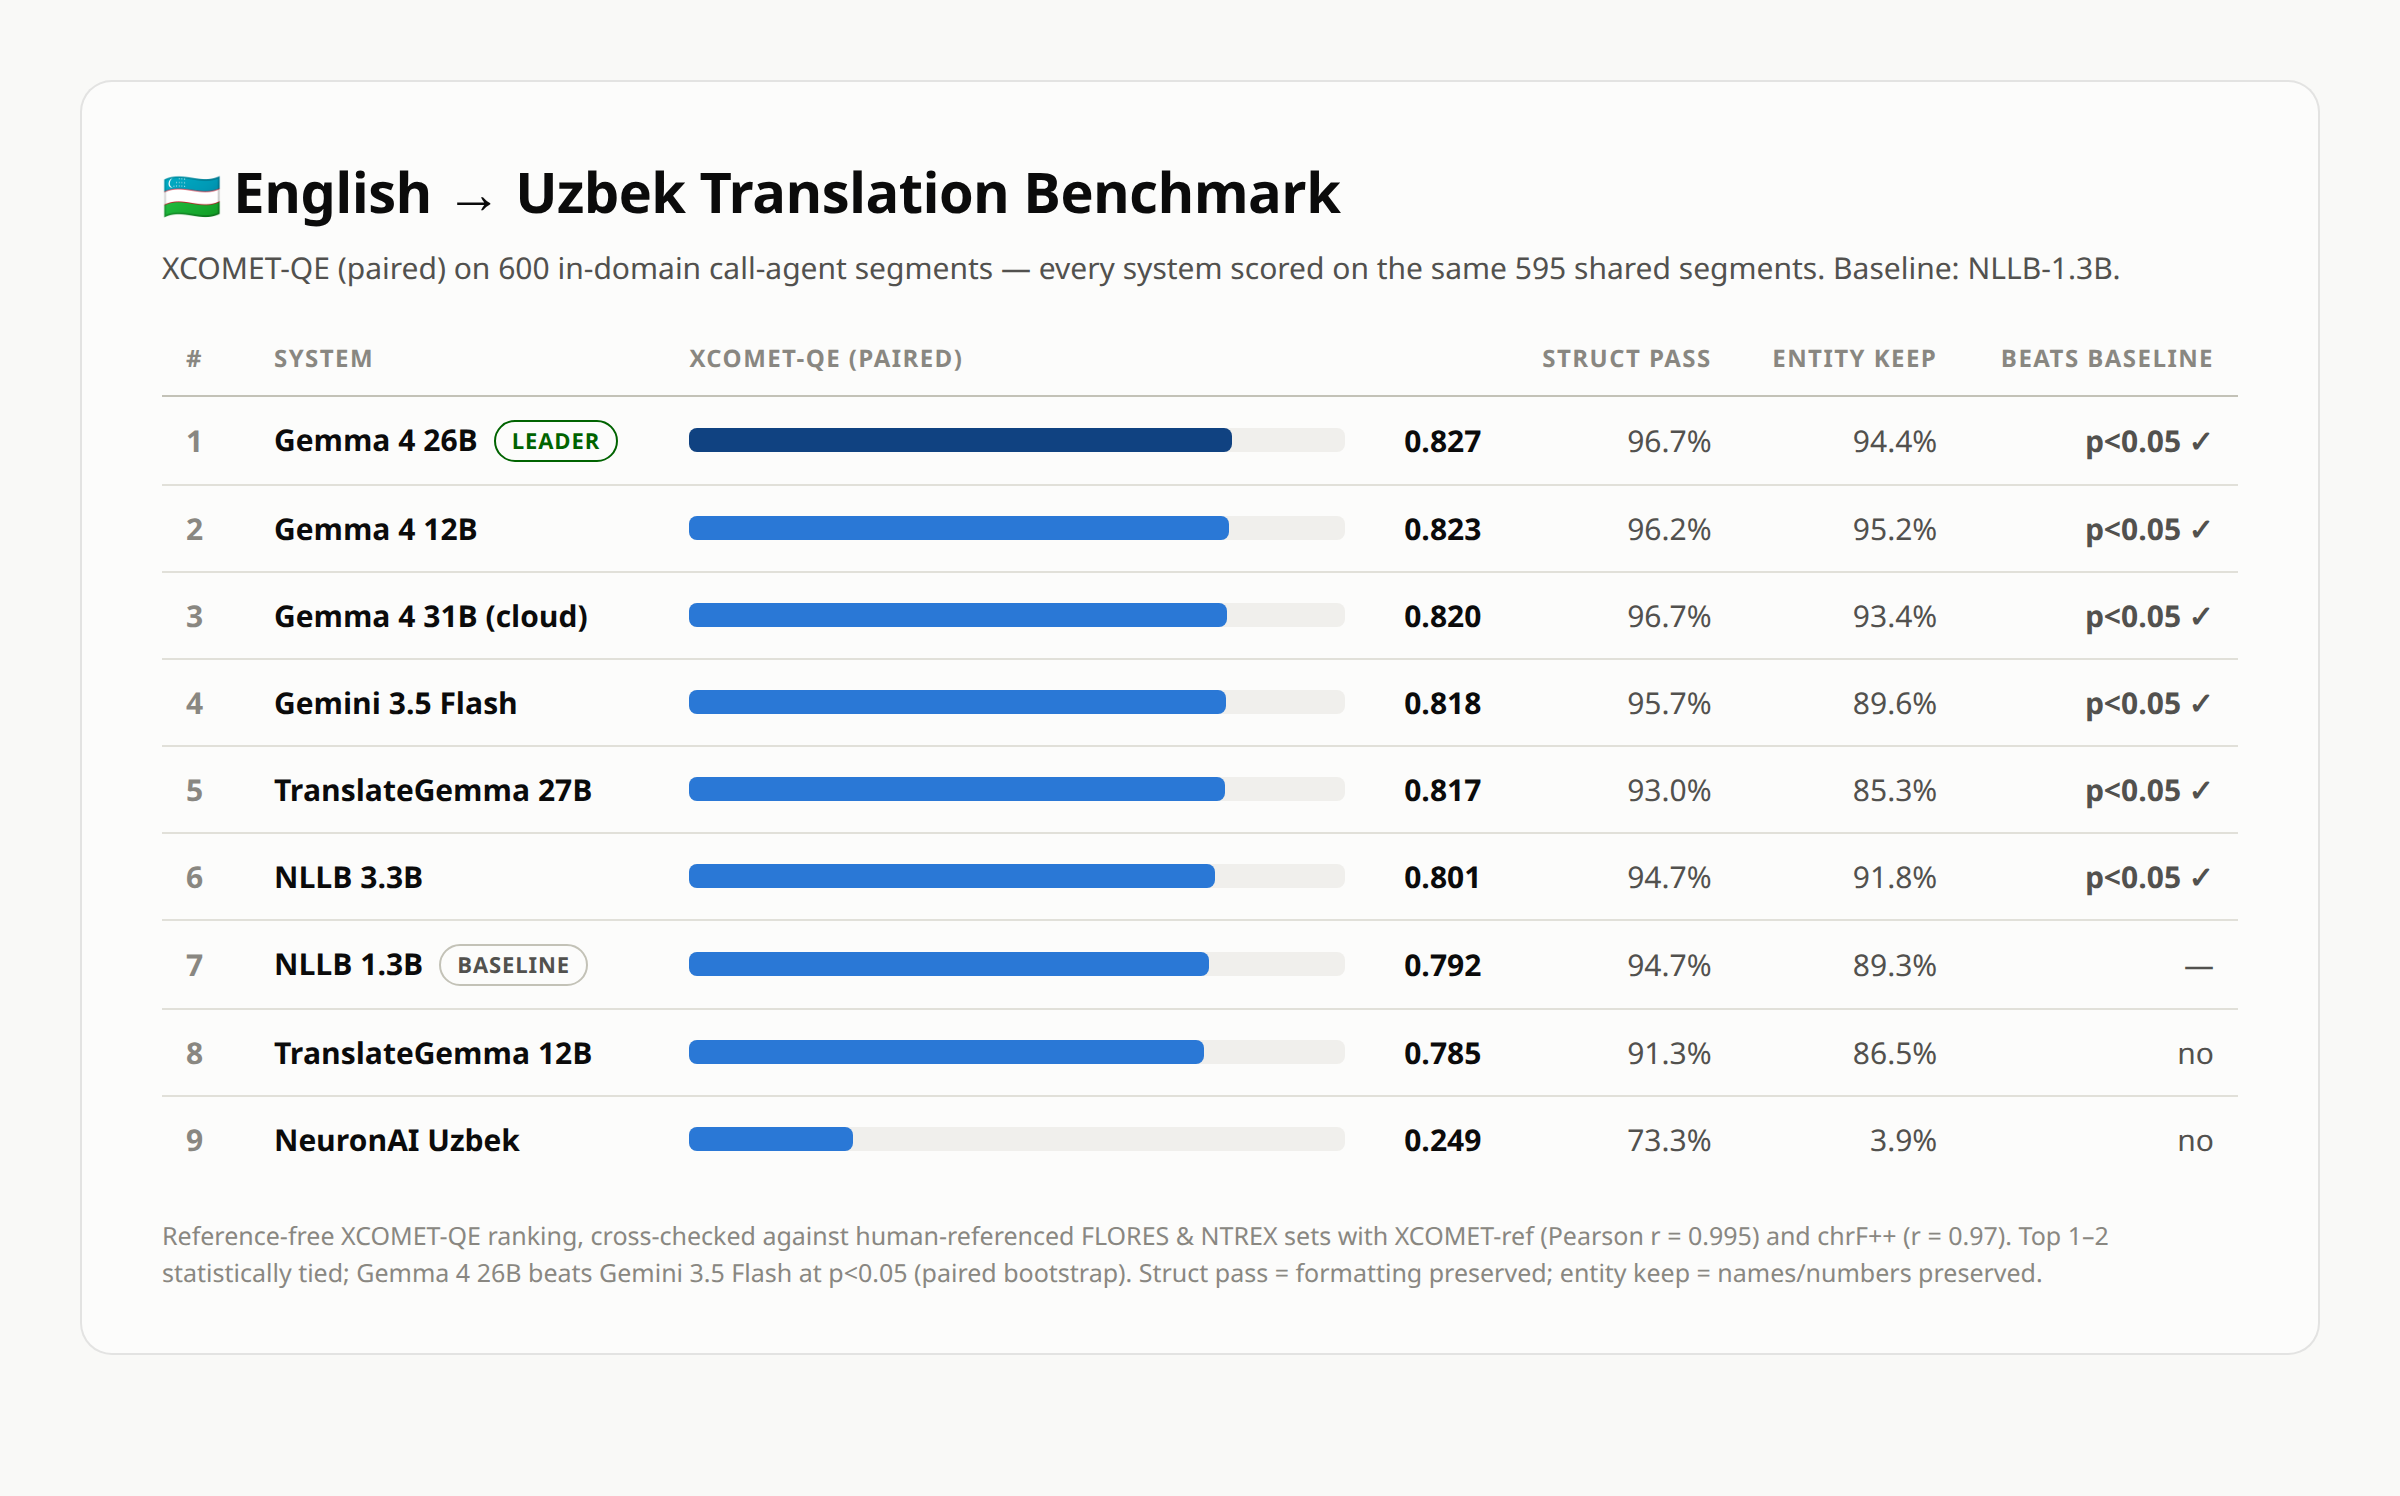
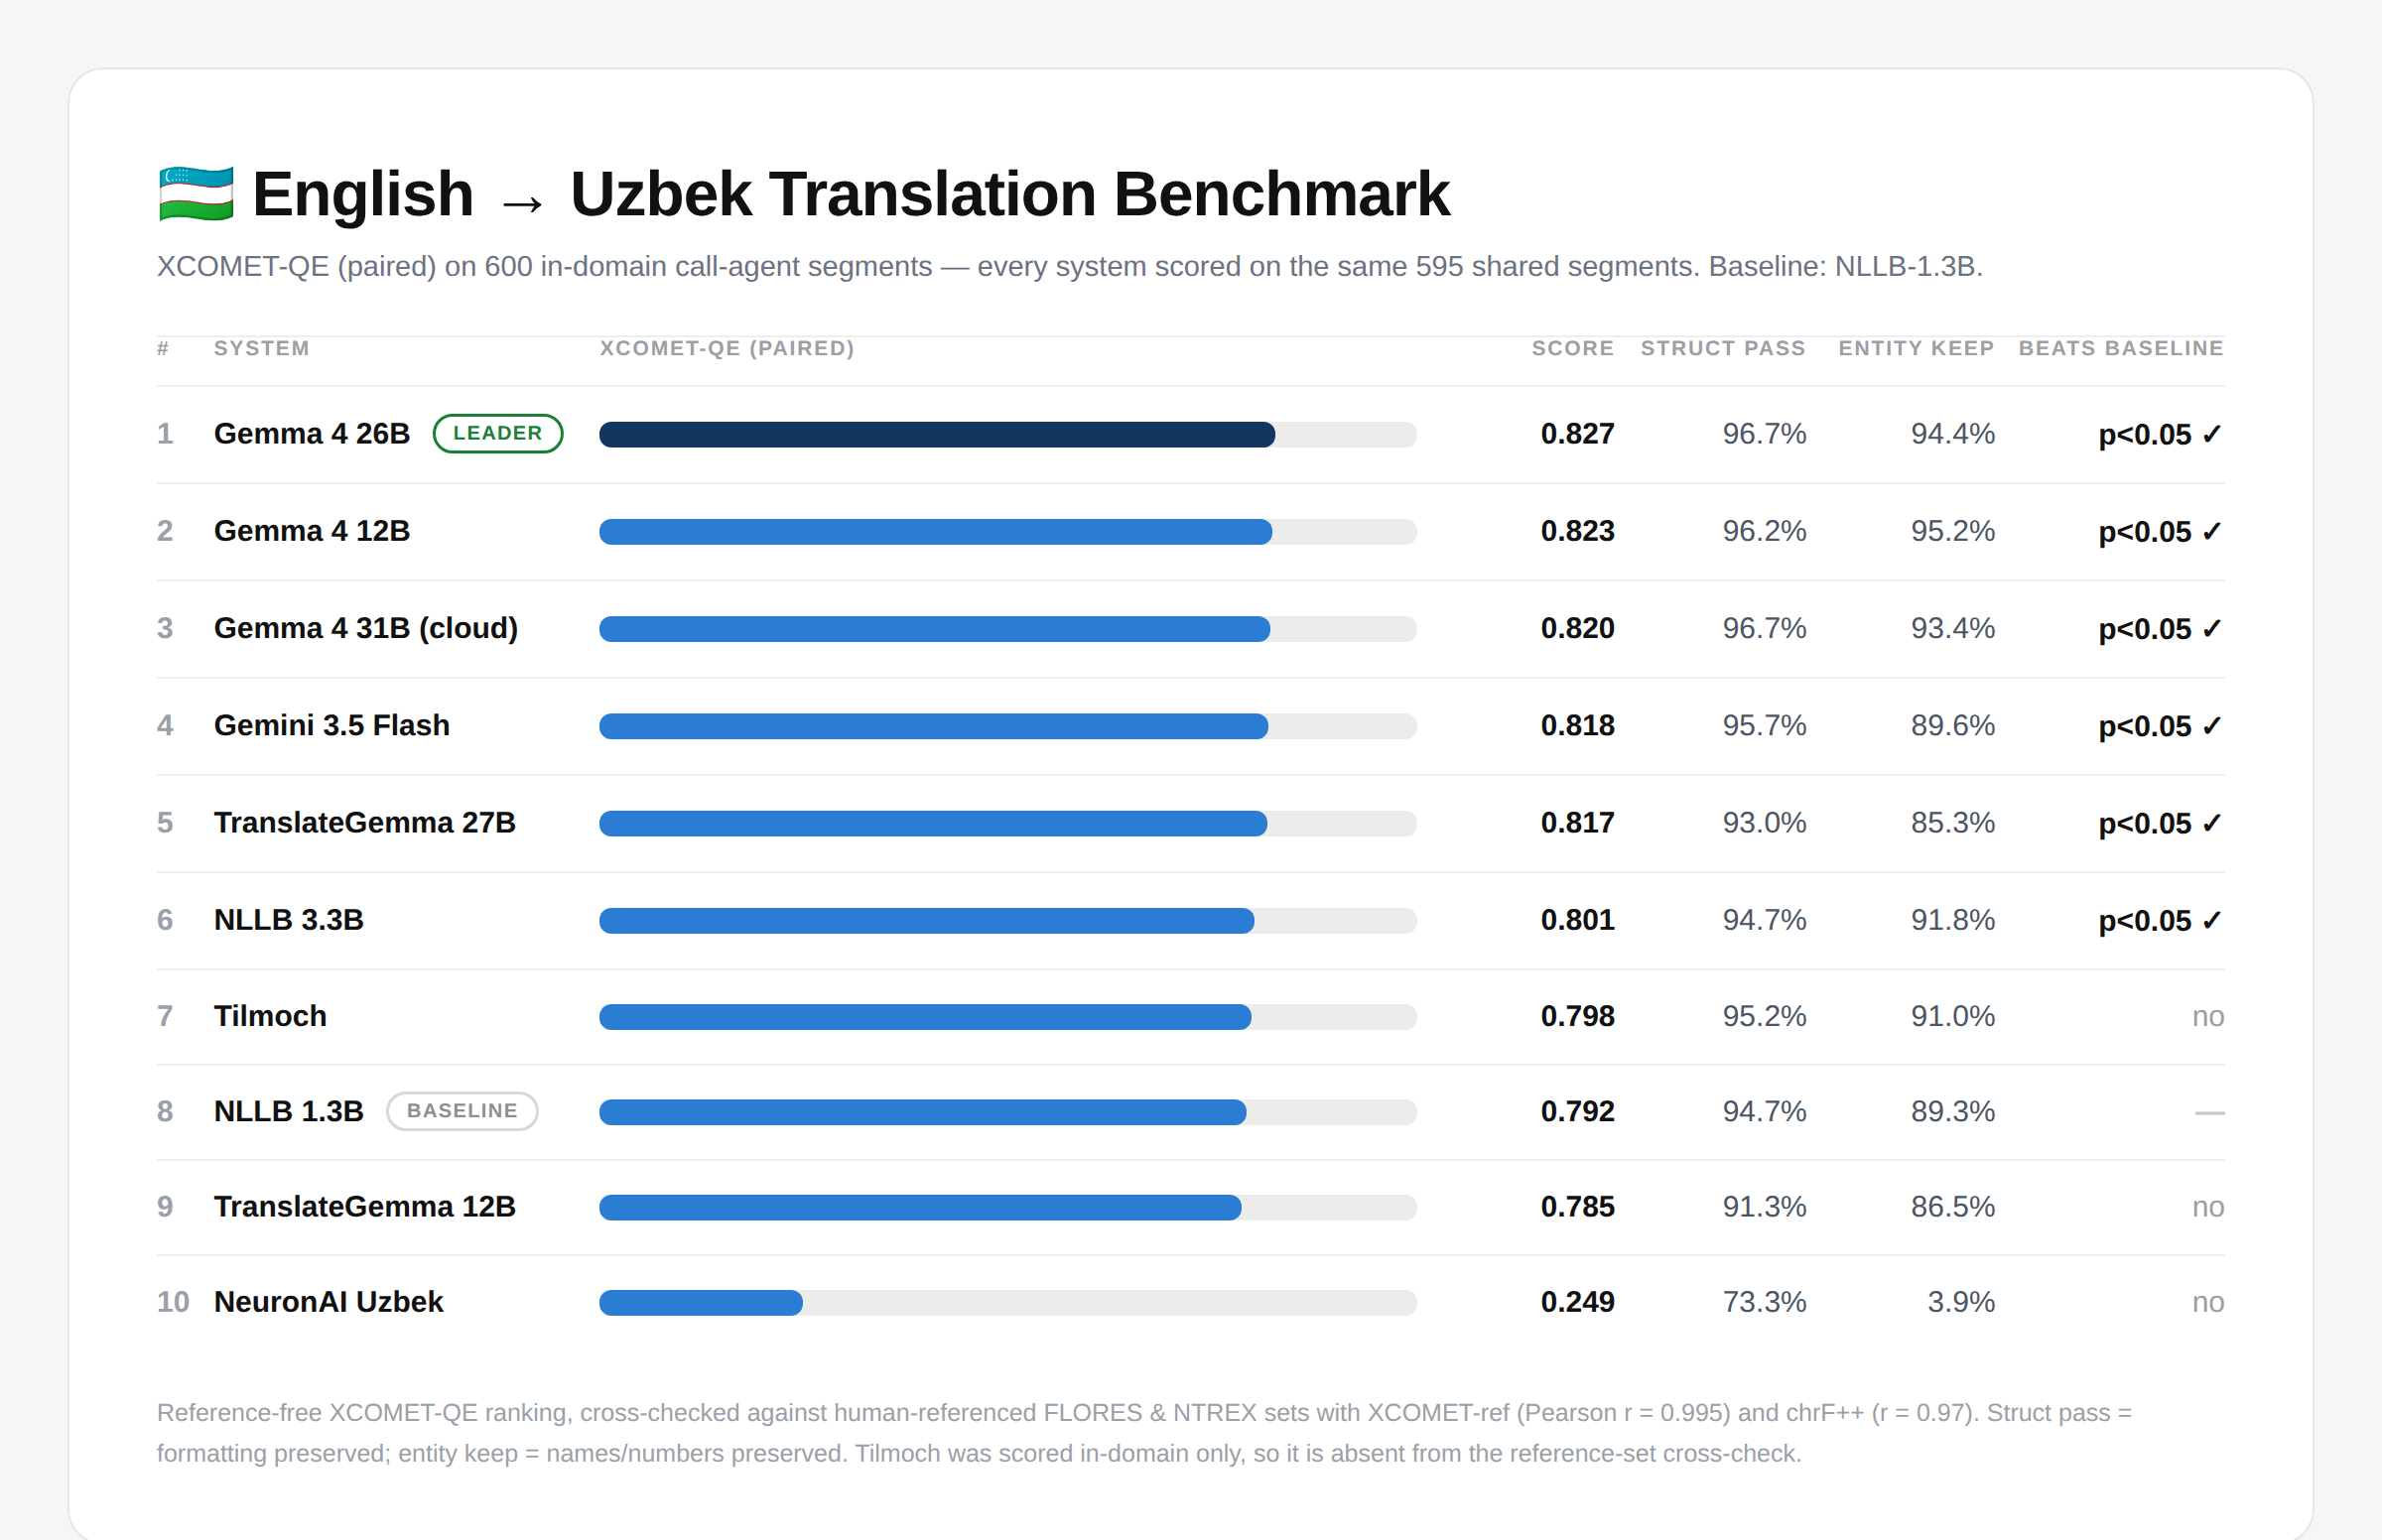
Update benchmark to include Tahrirchi and regenerate leaderboard image

diff --git a/uz_mt_bench/make_leaderboard_png.py b/uz_mt_bench/make_leaderboard_png.py
@@ -1,0 +1,196 @@
+"""Render LEADERBOARD.md's in-domain table to leaderboard.png.
+
+The PNG shipped in the README was previously made by hand, so it silently went
+stale whenever a system was added. This regenerates it from the markdown that
+`aggregate.py` writes, so the image can never disagree with the numbers.
+
+    python -m uz_mt_bench.make_leaderboard_png
+    python -m uz_mt_bench.make_leaderboard_png --out /tmp/preview.png
+
+Requires a Chrome/Chromium binary for the headless screenshot (no Python
+plotting dependency — the layout is HTML/CSS, matching the original design).
+"""
+
+from __future__ import annotations
+
+import argparse
+import html
+import re
+import shutil
+import subprocess
+import tempfile
+from pathlib import Path
+
+# Pretty names for the leaderboard; anything unlisted falls back to its key.
+DISPLAY = {
+    "gemma4-26b": "Gemma 4 26B",
+    "gemma4-12b": "Gemma 4 12B",
+    "gemma4-31b-cloud": "Gemma 4 31B (cloud)",
+    "gemini-3.5-flash": "Gemini 3.5 Flash",
+    "translategemma-27b": "TranslateGemma 27B",
+    "translategemma-12b": "TranslateGemma 12B",
+    "nllb-3.3b": "NLLB 3.3B",
+    "nllb-1.3b": "NLLB 1.3B",
+    "neuronai-uzbek": "NeuronAI Uzbek",
+    "tilmoch": "Tilmoch",
+}
+BASELINE = "nllb-1.3b"
+WIDTH, SCALE = 1200, 2          # 2400px wide at 2x DPR, as the original
+ROW_H, CHROME_H = 46, 316       # per-row height + fixed header/footer/padding
+
+
+def parse_table(md_path: Path) -> list[dict]:
+    """Pull the in-domain leaderboard rows out of the generated markdown."""
+    text = md_path.read_text()
+    section = text.split("## In-domain leaderboard")[1].split("\n### ")[0]
+    rows = []
+    for line in section.splitlines():
+        if not line.startswith("| ") or line.startswith("| system") or "---" in line:
+            continue
+        c = [x.strip() for x in line.split("|")[1:-1]]
+        if len(c) < 9 or c[0] not in DISPLAY:
+            continue
+        rows.append(
+            {
+                "key": c[0],
+                "struct": float(c[3]),
+                "entity": float(c[4]),
+                "paired": float(c[5]),
+                "p": c[8],
+            }
+        )
+    if not rows:
+        raise SystemExit(f"no leaderboard rows parsed from {md_path}")
+    return rows
+
+
+def _beats(row: dict) -> str:
+    """The 'beats baseline' cell: significance verdict, not the raw p-value."""
+    if row["key"] == BASELINE:
+        return '<span class="dash">—</span>'
+    if row["p"] == "—":
+        return '<span class="dash">—</span>'
+    if row["p"].endswith("*"):
+        return '<span class="yes">p&lt;0.05 ✓</span>'
+    return '<span class="no">no</span>'
+
+
+def build_html(rows: list[dict], n_seg: int, n_paired: int) -> str:
+    body = []
+    for i, r in enumerate(rows, 1):
+        badge = ""
+        if i == 1:
+            badge = '<span class="badge leader">LEADER</span>'
+        elif r["key"] == BASELINE:
+            badge = '<span class="badge base">BASELINE</span>'
+        fill = "fill lead" if i == 1 else "fill"
+        body.append(f"""
+      <tr>
+        <td class="rank">{i}</td>
+        <td class="sys">{html.escape(DISPLAY[r['key']])}{badge}</td>
+        <td class="barcell"><div class="track"><div class="{fill}"
+             style="width:{r['paired'] * 100:.1f}%"></div></div></td>
+        <td class="score">{r['paired']:.3f}</td>
+        <td class="pct">{r['struct'] * 100:.1f}%</td>
+        <td class="pct">{r['entity'] * 100:.1f}%</td>
+        <td class="beats">{_beats(r)}</td>
+      </tr>""")
+
+    return f"""<!doctype html><html><head><meta charset="utf-8"><style>
+  * {{ box-sizing: border-box; margin: 0; padding: 0; }}
+  body {{ width: {WIDTH}px; background: #f6f6f4; padding: 34px;
+         font-family: -apple-system, "Segoe UI", Inter, Helvetica, Arial, sans-serif;
+         -webkit-font-smoothing: antialiased; }}
+  .card {{ background: #fff; border: 1px solid #e6e6e2; border-radius: 18px;
+           padding: 44px 44px 34px; }}
+  h1 {{ font-size: 32px; font-weight: 800; letter-spacing: -.5px; color: #111; }}
+  .sub {{ margin-top: 10px; font-size: 14.5px; color: #6b7280; }}
+  table {{ width: 100%; border-collapse: collapse; margin-top: 26px; }}
+  th {{ font-size: 10.5px; font-weight: 700; letter-spacing: .09em; color: #9aa0a6;
+        text-transform: uppercase; text-align: left; padding: 0 0 12px; }}
+  th.r, td.score, td.pct, td.beats {{ text-align: right; }}
+  tr {{ border-top: 1px solid #eeeeec; }}
+  td {{ padding: 15px 0; font-size: 15px; vertical-align: middle; }}
+  td.rank {{ width: 34px; color: #9aa0a6; font-weight: 700; }}
+  td.sys {{ font-weight: 700; color: #111; white-space: nowrap; padding-right: 18px; }}
+  td.barcell {{ width: 42%; padding-right: 26px; }}
+  .track {{ background: #ececea; border-radius: 6px; height: 13px; width: 100%; }}
+  .fill {{ background: #2b7cd3; border-radius: 6px; height: 13px; }}
+  .fill.lead {{ background: #12365f; }}
+  td.score {{ font-weight: 700; color: #111; width: 88px; }}
+  td.pct {{ color: #4b5563; width: 118px; }}
+  td.beats {{ width: 140px; font-weight: 700; }}
+  .yes {{ color: #111; }} .no {{ color: #9aa0a6; font-weight: 500; }}
+  .dash {{ color: #c4c7cb; }}
+  .badge {{ font-size: 10px; font-weight: 700; letter-spacing: .07em; padding: 3px 9px;
+            border-radius: 999px; margin-left: 11px; vertical-align: 2px; }}
+  .leader {{ color: #1a7f37; border: 1.5px solid #1a7f37; }}
+  .base {{ color: #8b9096; border: 1.5px solid #d6d8da; }}
+  .foot {{ margin-top: 22px; font-size: 12.5px; line-height: 1.65; color: #9aa0a6; }}
+</style></head><body>
+  <div class="card">
+    <h1>🇺🇿 English → Uzbek Translation Benchmark</h1>
+    <div class="sub">XCOMET-QE (paired) on {n_seg} in-domain call-agent segments —
+      every system scored on the same {n_paired} shared segments. Baseline: NLLB-1.3B.</div>
+    <table>
+      <tr>
+        <th>#</th><th>System</th><th>XCOMET-QE (paired)</th><th class="r">Score</th>
+        <th class="r">Struct pass</th><th class="r">Entity keep</th>
+        <th class="r">Beats baseline</th>
+      </tr>{''.join(body)}
+    </table>
+    <div class="foot">Reference-free XCOMET-QE ranking, cross-checked against
+      human-referenced FLORES &amp; NTREX sets with XCOMET-ref (Pearson r = 0.995) and
+      chrF++ (r = 0.97). Struct pass = formatting preserved; entity keep =
+      names/numbers preserved. Tilmoch was scored in-domain only, so it is absent
+      from the reference-set cross-check.</div>
+  </div>
+</body></html>"""
+
+
+def find_chrome() -> str:
+    for b in ("google-chrome", "chromium", "chromium-browser", "chrome"):
+        if path := shutil.which(b):
+            return path
+    raise SystemExit("no Chrome/Chromium binary found for headless rendering")
+
+
+def main() -> None:
+    ap = argparse.ArgumentParser(description=__doc__)
+    ap.add_argument("--leaderboard", default="LEADERBOARD.md")
+    ap.add_argument("--out", default="leaderboard.png")
+    args = ap.parse_args()
+
+    md = Path(args.leaderboard)
+    rows = parse_table(md)
+    text = md.read_text()
+    n_seg = int(re.search(r"(\d+) customer-support dialogue segments", text).group(1))
+    n_paired = int(re.search(r"mean over the (\d+) segments", text).group(1))
+
+    out = Path(args.out).resolve()
+    height = ROW_H * len(rows) + CHROME_H          # fit the card, no dead space
+    with tempfile.TemporaryDirectory() as tmp:
+        page = Path(tmp) / "board.html"
+        page.write_text(build_html(rows, n_seg, n_paired))
+        proc = subprocess.run(
+            [
+                find_chrome(), "--headless", "--disable-gpu", "--no-sandbox",
+                f"--screenshot={out}",
+                f"--window-size={WIDTH},{height}",
+                f"--force-device-scale-factor={SCALE}",
+                "--hide-scrollbars",
+                page.as_uri(),
+            ],
+            capture_output=True, text=True, timeout=120,
+        )
+    # Chrome exits 0 even when a bad flag aborts the capture, so trust the file,
+    # not the return code — otherwise a stale PNG silently survives a "success".
+    if not out.exists():
+        raise SystemExit(
+            f"chrome wrote no screenshot (rc={proc.returncode}):\n{proc.stderr.strip()}"
+        )
+    print(f"wrote {out} ({len(rows)} systems, {WIDTH * SCALE}x{height * SCALE})")
+
+
+if __name__ == "__main__":
+    main()

diff --git a/README.md b/README.md
@@ -9,7 +9,7 @@ has been public long enough that every large LLM has probably trained on it. Non
 of that tells you how a system handles a *caller interrupting an agent mid-sentence*,
 or whether it preserves the flight number `TR2704` and the time `9:35` verbatim.
 
-So this benchmark asks the question directly. It scores **9 systems** on **600
+So this benchmark asks the question directly. It scores **10 systems** on **600
 novel, in-domain customer-support dialogue segments** (banking, telecom, bookings,
 everyday chit-chat) with a reference-free neural metric, hard
 structural gates, and an out-of-domain human-reference cross-check.
@@ -41,11 +41,13 @@ A system that scores well but silently drops `TR2704` is disqualified for a
 call agent regardless of how fluent it sounds — which is why the gates are
 reported next to the score, not folded into it.
 
-**2. Out-of-domain sanity check (metric validation).** The same 9 systems on
+**2. Out-of-domain sanity check (metric validation).** Nine of the ten systems on
 **NTREX-128** and **FLORES-200**, scored by XCOMET-XL in *reference* mode against
 professional human translations. This exists to answer "is the reference-free
 metric measuring anything real?" — and it does: reference-free and reference-based
-scoring agree on the system ranking at Pearson **0.995**.
+scoring agree on the system ranking at Pearson **0.995**. `tilmoch` is a paid
+per-character API and was purchased for the in-domain set only, so it is absent
+from this cross-check; its in-domain score stands on the same footing as the rest.
 
 ## Systems under test
 
@@ -58,42 +60,42 @@ scoring agree on the system ranking at Pearson **0.995**.
 | `translategemma-12b` / `translategemma-27b` | TranslateGemma (MT-tuned) | local Ollama |
 | `gemini-3.5-flash` | Gemini (LLM) | Google API |
 | `neuronai-uzbek` | Uzbek-specialised Qwen3-4B FT | local HF |
+| `tilmoch` | Tahrirchi Tilmoch (Uzbek MT service) | commercial API — paid |
 
 Every LLM system gets the **same fixed translation prompt** at temperature 0;
-NLLB uses beam 4. See [`uz_mt_bench/systems.py`](uz_mt_bench/systems.py).
+NLLB uses beam 4. `tilmoch`, like NLLB, is a dedicated MT service with no prompt
+and no context parameter, so it is called with the bare source segment. See
+[`uz_mt_bench/systems.py`](uz_mt_bench/systems.py).
 
 ---
 
-## ⚠ Status of the current numbers
+## Status of the current numbers
 
-The leaderboard in this repo was produced by a scoring run that ran **without
-long-segment chunking**. XCOMET's encoder truncates at 512 subword tokens, so the
-56 segments longer than ~80 words were cut off mid-input, which floors their score
-for *every* system and compresses the gaps between systems. The `kb_passage`
-column is the visible casualty.
+Long-segment chunking is applied: 560 of 5,995 scored (system, segment) pairs were
+sentence-aligned into multiple chunks, so XCOMET's 512-subword-token window never
+truncates a long `kb_passage` mid-input. Every row in the score file carries
+`n_chunks`, and `aggregate.py` derives the leaderboard's chunking note from the
+score file itself, so it cannot go stale.
 
-Chunking is now the default in `comet_qe.py`. **Re-run the QE scoring step and
-regenerate the leaderboard before citing these numbers**:
+Two gaps remain, both stated in the leaderboard's **Not run in this release**
+section: the **GEMBA-MQM judge** never completed (its output was a handful of
+malformed-JSON rows and is not shipped), and the **turkic_xwmt** refset was never
+scored. The harness for both ships here; the results do not.
+
+Reproduce the scoring and regenerate the published artifacts with:
 
 ```bash
-python -m uz_mt_bench.comet_qe      # ~20 min on an A100; chunking is on by default
-python -m uz_mt_bench.aggregate     # rewrites LEADERBOARD.md
+python -m uz_mt_bench.comet_qe            # XCOMET-QE; chunking on by default
+python -m uz_mt_bench.structural_checks   # structural gates
+python -m uz_mt_bench.aggregate           # rewrites LEADERBOARD.md
+python -m uz_mt_bench.make_leaderboard_png  # rewrites leaderboard.png
 ```
-
-The ⚠ banner in `LEADERBOARD.md` disappears once the scores carry `n_chunks`.
-`aggregate.py` derives that banner from the score file itself, so it cannot go
-stale.
-
-Two further gaps, both stated in the leaderboard's **Not run in this release**
-section: the **GEMBA-MQM judge** never completed (its output was a handful of
-malformed-JSON rows and is not shipped), and **chrF++** and the **turkic_xwmt**
-refset were never run. The harness for all three ships here; the results do not.
 
 ---
 
 ## Reproducing
 
-Everything below runs from this directory. The 600-segment benchmark, all 9
+Everything below runs from this directory. The 600-segment benchmark, all 10
 systems' translations, and the score files are **included**, so you can re-derive
 the leaderboard without a GPU or an API key:
 
@@ -123,6 +125,7 @@ huggingface-cli login          # XCOMET-XL and FLORES-200 are gated repos
 ```bash
 export GEMINI_API_KEY=...       # gemini-3.5-flash (system + judge)
 export OLLAMA_API_KEY=...       # gemma4:31b-cloud only
+export TILMOCH_KEY=...          # tilmoch — billed per source character
 
 ollama serve &
 ollama pull gemma4:12b && ollama pull gemma4:26b
@@ -150,7 +153,7 @@ python -m uz_mt_bench.structural_checks \
     --candidates data/eval/candidates/uz_mt_benchmark.smoke
 ```
 
-**5. Translate** all 9 systems (resumable — re-run after an OOM or rate-limit and
+**5. Translate** all 10 systems (resumable — re-run after an OOM or rate-limit and
 it skips finished rows):
 
 ```bash
@@ -164,8 +167,14 @@ python -m uz_mt_bench.structural_checks     # hard gates      (CPU)
 python -m uz_mt_bench.comet_qe              # XCOMET-QE       (GPU)
 python -m uz_mt_bench.gemini_judge          # GEMBA-MQM ×3    (API)
 
+# `tilmoch` is billed per source character and was bought for the in-domain set
+# only, so it is named out of the refset sweep — `--systems all` would spend real
+# money here (~3k segments × 3 refsets).
+FREE=nllb-1.3b,nllb-3.3b,gemma4-12b,gemma4-26b,gemma4-31b-cloud,\
+translategemma-12b,translategemma-27b,gemini-3.5-flash,neuronai-uzbek
+
 for RS in ntrex flores xwmt; do
-  python -m uz_mt_bench.translate_all --input data/eval/refsets/$RS.jsonl
+  python -m uz_mt_bench.translate_all --input data/eval/refsets/$RS.jsonl --systems $FREE
   python -m uz_mt_bench.comet_qe \
       --bench data/eval/refsets/$RS.jsonl --candidates data/eval/candidates/$RS --reference
   python -m uz_mt_bench.chrf_eval --refset $RS
@@ -175,7 +184,8 @@ done
 **7. Build the leaderboard.**
 
 ```bash
-python -m uz_mt_bench.aggregate
+python -m uz_mt_bench.aggregate             # rewrites LEADERBOARD.md
+python -m uz_mt_bench.make_leaderboard_png  # rewrites leaderboard.png (needs Chrome)
 ```
 
 `aggregate.py` reports only what it finds. A metric whose score file is absent is
@@ -201,7 +211,7 @@ and the Ollama-Cloud 31B model.
 uz_mt_bench/
   build_benchmark.py     # sample + stratify the 600 in-domain segments
   fetch_refsets.py       # download NTREX / FLORES / turkic_xwmt
-  systems.py             # the 9 systems behind one translate() interface
+  systems.py             # the 10 systems behind one translate() interface
   preflight.py           # check every system responds before a paid run
   translate_all.py       # generate candidates          -> data/eval/candidates/
   structural_checks.py   # hard gates                   -> scores/structural.jsonl

diff --git a/ATTRIBUTION.md b/ATTRIBUTION.md
@@ -55,7 +55,7 @@ corpus, which is **not** shipped here. The 600 sampled segments are.
 
 ## 3. The candidate translations (`data/eval/candidates/`)
 
-Machine-translated Uzbek output from nine systems. **Each system's output inherits
+Machine-translated Uzbek output from ten systems. **Each system's output inherits
 that model's license**, which is not the license of the source text.
 
 | System | Model | Output license / terms |
@@ -65,6 +65,11 @@ that model's license**, which is not the license of the source text.
 | `translategemma-12b`, `translategemma-27b` | TranslateGemma | [Gemma Terms of Use](https://ai.google.dev/gemma/terms) |
 | `gemini-3.5-flash` | Gemini | [Google APIs Terms of Service](https://developers.google.com/terms) |
 | `neuronai-uzbek` | [NeuronUz/NeuronAI-Uzbek](https://huggingface.co/NeuronUz/NeuronAI-Uzbek) | see the model card |
+| `tilmoch` | Tahrirchi Tilmoch (hosted API, no public weights) | governed by Tahrirchi's API terms — check your account agreement |
+
+`tilmoch` was run on the in-domain benchmark only (it is billed per source
+character), so `data/eval/candidates/ntrex/` and `.../flores/` contain no
+`tilmoch.jsonl`.
 
 > **The NLLB rows are non-commercial.** NLLB-200's weights are CC-BY-NC-4.0 and its
 > output inherits that restriction. Any corpus translated with `nllb-1.3b` or

diff --git a/METHODOLOGY.md b/METHODOLOGY.md
@@ -40,7 +40,7 @@ Results: [LEADERBOARD.md](LEADERBOARD.md). Running it: [README.md](README.md).
 
 **Design consequence.** The **reference-free backbone** — XCOMET-QE + GEMBA-MQM +
 structural gates — decides the in-domain ranking, needs no golden set, and covers
-all 9 systems. Reference-based scoring runs only on **external human refsets**, as
+all 10 systems. Reference-based scoring runs only on **external human refsets**, as
 a cross-check on the metric rather than as the decision.
 
 ---
@@ -60,6 +60,7 @@ Nine systems behind one `translate(text, context=None) -> str` interface.
 | 7 | `translategemma:27b` | TranslateGemma (MT-tuned) | local Ollama | quantized |
 | 8 | `gemini-3.5-flash` | Gemini (LLM) | Google API | minimal thinking; **also the judge** — see [§6.3](#63-conflict-of-interest-gemini-is-both-a-system-and-the-judge) |
 | 9 | `neuronai-uzbek` | Uzbek-specialized (Qwen3-4B FT) | local HF | `NeuronUz/NeuronAI-Uzbek`; chat template, greedy + repetition guards |
+| 10 | `tilmoch` | Tahrirchi Tilmoch (Uzbek MT service) | commercial API | `translate-v2`, `eng_Latn`→`uzn_Latn`; no prompt and no context field, called with the bare segment; billed per source character, so scored **in-domain only** |
 
 ### 2.1 Fixed translation prompt (all LLM systems)
 
@@ -163,7 +164,7 @@ The shipped `structural.jsonl` reproduces exactly under the fallback.
 ### 6.1 XCOMET-QE (primary, reference-free)
 
 `Unbabel/XCOMET-XL` (3.5B) in QE mode: score each `(en_text, uz_text)` pair 0-1
-with no reference, across all 9 systems × 600 segments. GPU, batched.
+with no reference, across all 10 systems × 600 segments. GPU, batched.
 
 **Long-segment chunking.** XCOMET's XLM-R encoder truncates at 512 subword tokens.
 Anything past the cut is invisible to the metric, so a long-but-correct translation